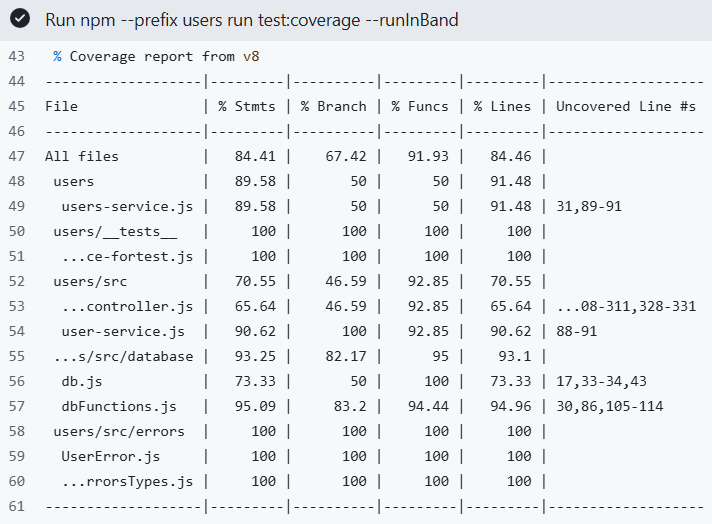
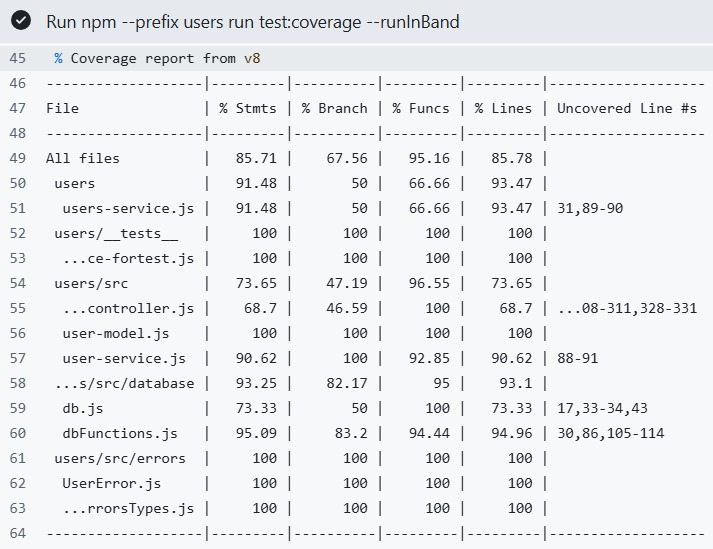
Updates

diff --git a/index.html b/index.html
@@ -2076,9 +2076,6 @@ por último, tenemos las pruebas de usabilidad, que se hacen respecto a usuarios
 </tr>
 </tbody>
 </table>
-<div class="paragraph">
-<p>También existen otros riesgos no tan relacionados con los aspectos tecnológicos del proyecto, que definiremos del mismo modo:</p>
-</div>
 </div>
 <div class="sect2">
 <h3 id="_tabla_de_otros_riesgos">11.2. Tabla de otros riesgos</h3>
@@ -2211,7 +2208,7 @@ Para ello, separamos los test por funcionalidad en clases <strong>users-service-
 </li>
 <li>
 <p><strong>Test de Coverage: </strong> Que comprueban que el código usado en la aplicación esté probado en los test anteriores.
-En este caso, la captura está sacada de las Actions de GitHub, más específicamente en el <strong>Build &#8594; Merge pull request #109 from Arquisoft/JimenaIssue29 #213</strong>.</p>
+En este caso, la captura está sacada de las Actions de GitHub, más específicamente en el <strong>Build &#8594; Merge pull request #136 from Arquisoft/IyanBot #314</strong>.</p>
 </li>
 </ul>
 </div>
